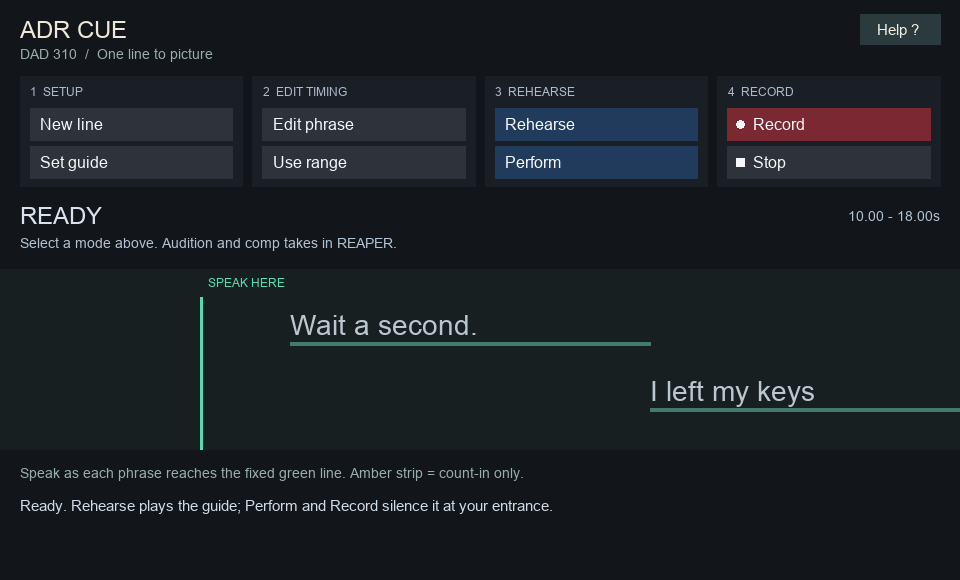
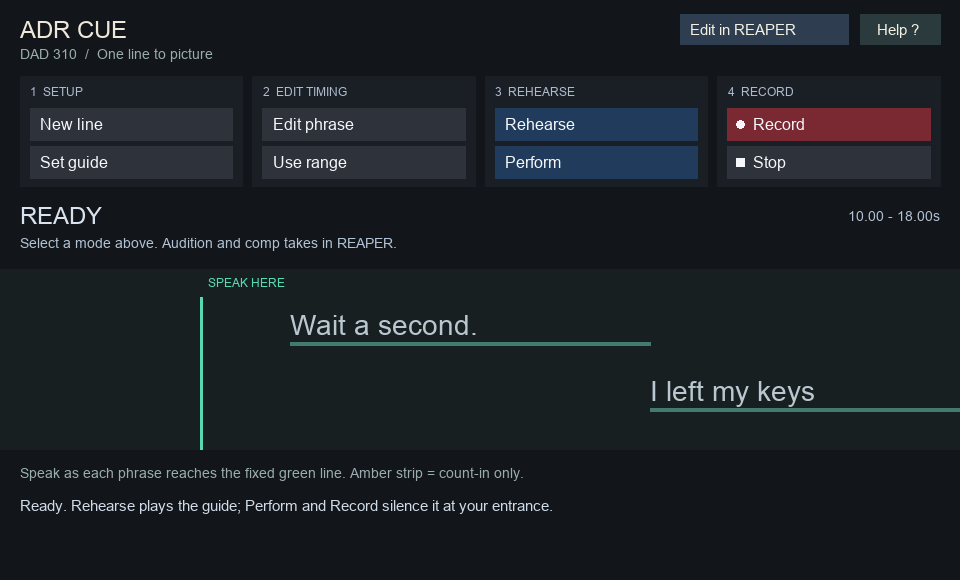
Add persistent Edit in REAPER mode and restore ADR controls

Changed region(s): [[0.6875, 0.0, 0.9062, 0.0931]]

diff --git a/README.md b/README.md
@@ -1,12 +1,12 @@
 # DAD 310 ADR Cue
 
-Version 0.2.0. Built for DAD 310: Sound Design for Film at Dakota State University.
+Version 0.3.0. Built for DAD 310: Sound Design for Film at Dakota State University.
 
 A REAPER script for replacing one line to picture. It provides scrolling phrase cues, a separate amber three-second count-in strip, three audio beeps, and guide playback control. Everything runs locally.
 
 ## Install
 
-[Download ADR Cue v0.2.0](https://github.com/tatecarson/reaper-adr-cue/releases/download/v0.2.0/dad310-adr-cue-v0.2.0.zip). Download the whole ZIP, not an individual Lua file.
+[Download ADR Cue v0.3.0](https://github.com/tatecarson/reaper-adr-cue/releases/download/v0.3.0/dad310-adr-cue-v0.3.0.zip). Download the whole ZIP, not an individual Lua file.
 
 1. Extract the entire ZIP into a permanent folder. Keep `DAD310_ADR_Cue.lua`, `adr_core.lua`, and `adr-beep.wav` together.
 2. In REAPER 7, open **Actions > Show action list**.
@@ -46,6 +46,20 @@ Neutral controls prepare the cue. Blue controls rehearse it. The red Record butt
 For review, use REAPER's normal transport, mute the original guide, and audition and comp performances with fixed item lanes. Review controls are intentionally kept in REAPER; this tool does not rename takes or alter comp selections.
 
 The tool restores the guide level and repeat setting when you stop, close its window, or switch project tabs. Open the action again to work in a different project. Save the project after editing cues. Close the cue tool before mixing or rendering, and verify that `ADR COUNT-IN` is muted.
+
+## Switch to editing
+
+When you finish recording, stop playback and click **Edit in REAPER** at the top of the window.
+
+- Hides `ADR PHRASES`, `ADR COUNT-IN`, and the assigned guide track from the track panel and mixer.
+- Turns the guide volume down to zero without muting its track, so its video remains available. The count-in stays silent.
+- Leaves `ADR RECORD`, your takes, and other location-audio tracks unchanged.
+
+Edit and comp your performances in REAPER's fixed item lanes. Hiding the original guide silences all audio on that track, so keep the location audio you want in the finished edit on a separate working track.
+
+Click **Return to ADR** when you need another take. It restores the tracks' previous visibility and the guide's previous volume. The button only switches modes when playback is stopped. Rehearsal and recording are blocked while Edit mode is active.
+
+Edit mode stays active when you close the tool and saves with your project. Run the script again and click **Return to ADR** to restore the support tracks. No tracks or audio items are deleted.
 
 ## Current limits
 

diff --git a/CHANGELOG.md b/CHANGELOG.md
@@ -1,5 +1,13 @@
 # Changelog
 
+## 0.3.0
+
+- Add Edit in REAPER / Return to ADR toggle.
+- Hide support tracks and silence the guide while editing, without disabling video.
+- Restore previous visibility and guide level when returning to ADR.
+- Preserve Edit mode across script restarts and project saves.
+- Add regression tests for restoration, deleted tracks, and playback guards.
+
 ## 0.2.0
 
 First public release.
